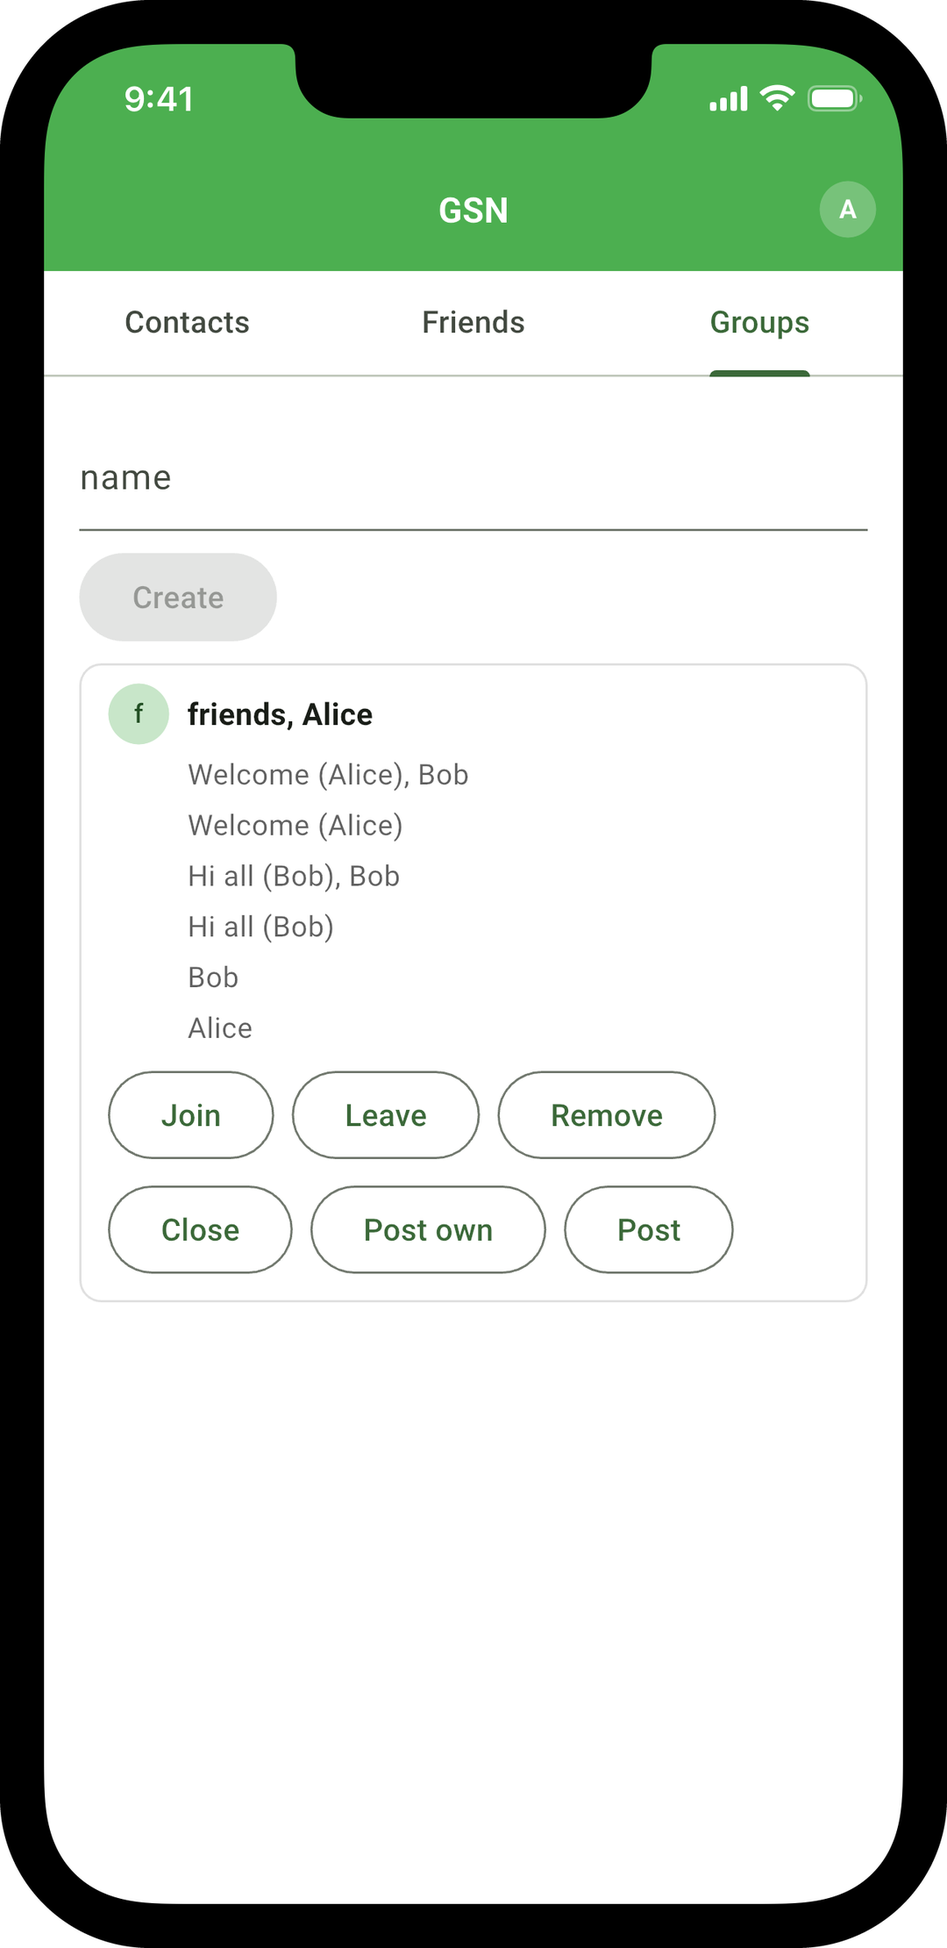
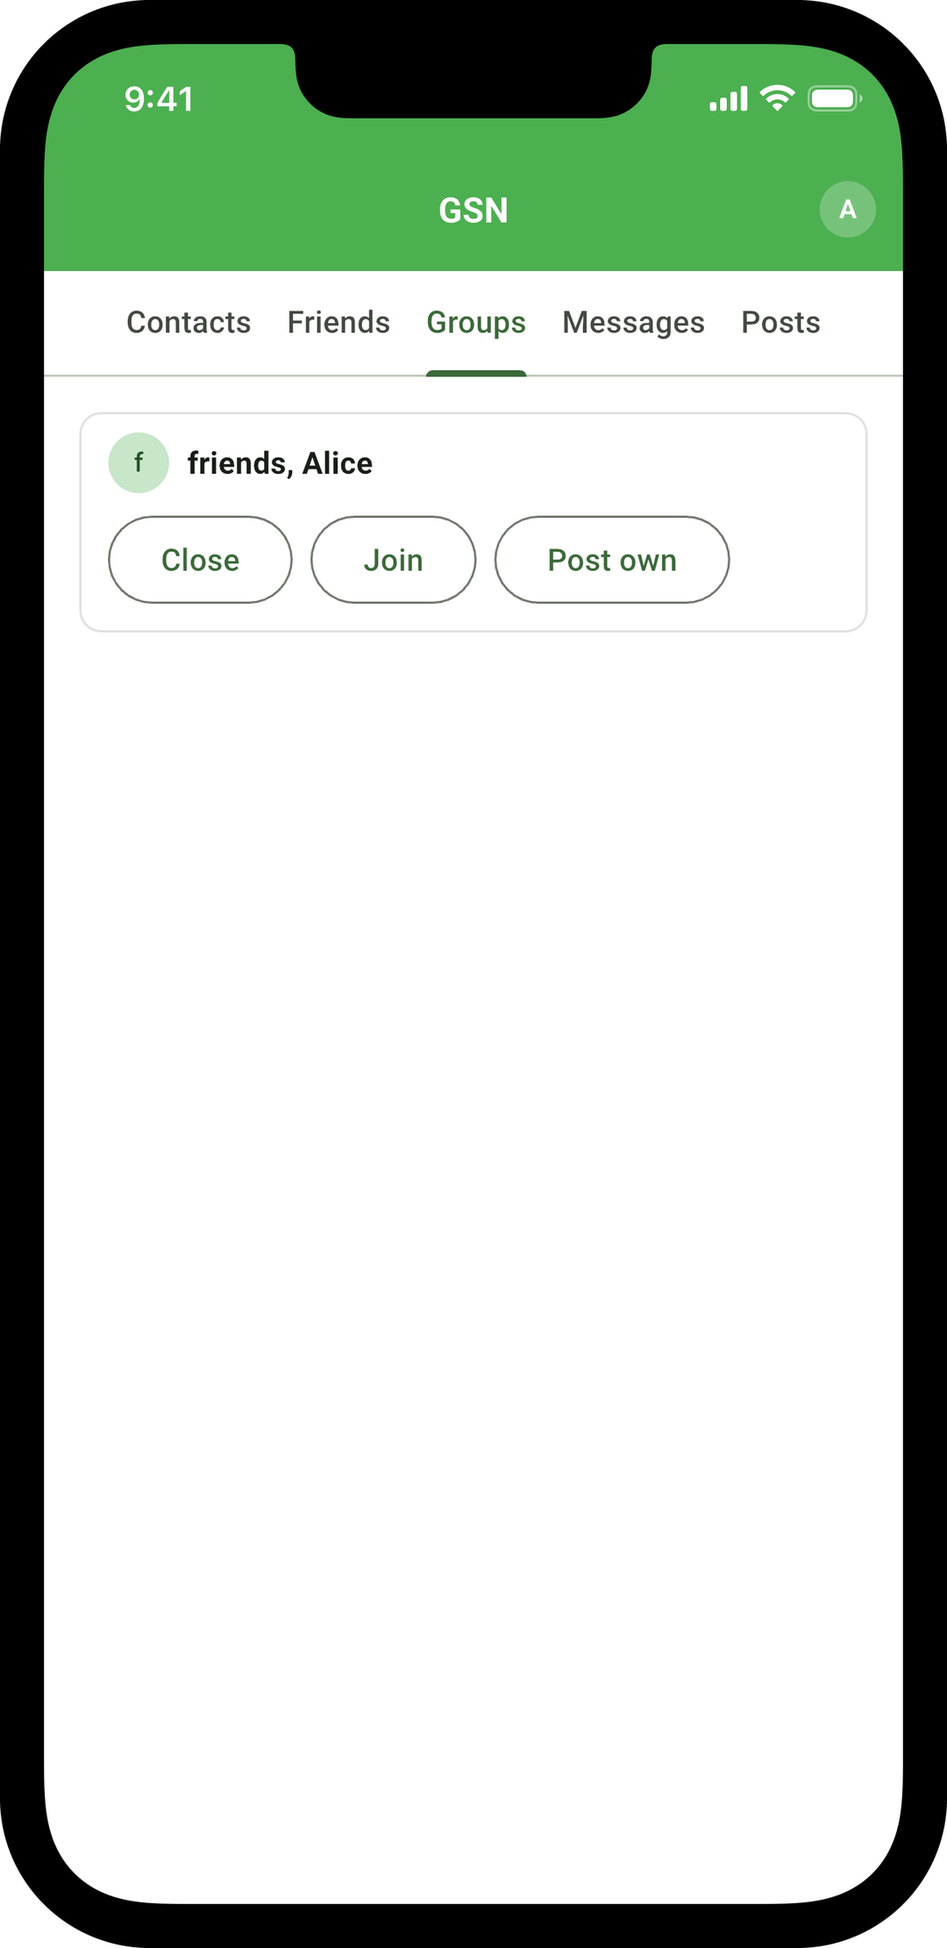
GSN's app: tabs Messages and Posts (received, received_in), the Join question 'Alice asks you to join her group.', screens re-taken; the clause copies in the gkk, gsg and gsn READMEs go, their pointers to programs/gsc stay (GSC #13, Code_inbox.md 2026-11-06 16:45, 2026-11-07 07:28, 08:19 and 09:04 U

diff --git a/glp_multiagent/test/apps_screens_test.dart b/glp_multiagent/test/apps_screens_test.dart
@@ -1052,10 +1052,12 @@ void appsScreens(Screens screens) {
     const friends = 'speech(utterance(friends), alice)';
     const friendsGroup = 'dot(community(alice), $friends)';
 
-    // Three tabs, the lists of GKK's, GSG's and GSN's pragmas: Contacts, Friends and Groups.
+    // Five tabs, the lists of GKK's, GSG's and GSN's pragmas: Contacts, Friends, Groups, Messages, "Messages: the messages Alice received.", and Posts, "Posts: the posts Alice received in her groups." (programs/gsc/GSN.txt at GLP 1aab4307), the predicates received and received_in.
     expect(run.listNamed(alice, 'knows', 'Contacts'), findsOneWidget);
     expect(run.listNamed(alice, 'friend', 'Friends'), findsOneWidget);
     expect(run.listNamed(alice, 'member', 'Groups'), findsOneWidget);
+    expect(run.listNamed(alice, 'received', 'Messages'), findsOneWidget);
+    expect(run.listNamed(alice, 'received_in', 'Posts'), findsOneWidget);
 
     // Identity, acquaintance and friendship, as in GSG's app.
     await run.join(alice);
@@ -1069,7 +1071,12 @@ void appsScreens(Screens screens) {
     await run.type(alice, run.control(alice, 'field:message:bob:3'), 'Hi Bob');
     await run.tap(alice, run.control(alice, 'send:message:bob'));
     expect(bob.questions('approval'), isEmpty);
-    expect(bob.atoms, contains("received(speech(utterance('Hi Bob'), alice), alice)"));
+    const hiBob = "received(speech(utterance('Hi Bob'), alice), alice)";
+    expect(bob.atoms, contains(hiBob));
+    // Bob's Messages tab lists the message, the atom received(x, a) of his state.
+    await run.list(bob, 'received');
+    expect(run.control(bob, 'atom:$hiBob'), findsOneWidget);
+    expect(run.texts(bob), contains('Hi Bob'));
 
     // (a) Bob's Friends tab: the atom of the list, friend(alice), by her name (vGLP, Section 5.4: "The tab lists the atoms of that predicate in the state").
     await run.list(bob, 'friend');
@@ -1092,7 +1099,7 @@ void appsScreens(Screens screens) {
         alice, run.control(alice, 'pick:join:$friendsGroup:bob'));
     await run.tap(alice, run.control(alice, 'send:join:$friendsGroup'));
 
-    // (b) Bob's first tab, badged: GSN's question "Alice asks you to join their group.", the group's name, friends, under it, and yes and no at its top.
+    // (b) Bob's first tab, badged: GSN's question "Alice asks you to join her group.", the group's name, friends, under it, and yes and no at its top.
     final a = bob.approval;
     expect(formatTerm(a.view), contains(', join(alice, bob, $friends), none), '));
     expect(
@@ -1102,7 +1109,7 @@ void appsScreens(Screens screens) {
         findsOneWidget);
     await run.list(bob, 'knows');
     await run.top(bob);
-    const asks = 'Alice asks you to join their group.';
+    const asks = 'Alice asks you to join her group.';
     // The group's name, a speech act of Alice's, is drawn with its signer: "A speech act, in a row, a question or a field, is drawn with its signers" (vGLP 516a0a2, Section 6.2).
     // Then the atoms the act requires of the proposer whose predicates the tabs list: the group Alice leads (vGLP e22e2ad, Section 5.4, "The contract's words"), and her friend.
     expect(run.textsOf(bob, a), [
@@ -1132,6 +1139,14 @@ void appsScreens(Screens screens) {
     expect(alice.atoms, contains('posted($hiAll, $friends)'));
     expect(alice.atoms, contains('delivered($hiAll, bob, $friends)'));
     expect(bob.atoms, contains('received_in($hiAll, alice, $friends)'));
+    // Bob's Posts tab lists the post delivered to him, the atom received_in(x, a, n) of his state; Alice's lists none, the leader receiving no delivery.
+    await run.list(bob, 'received_in');
+    expect(run.control(bob, 'atom:received_in($hiAll, alice, $friends)'),
+        findsOneWidget);
+    expect(run.texts(bob), contains('Hi all'));
+    await run.list(alice, 'received_in');
+    expect(run.texts(alice), isNot(contains('Hi all')));
+    await run.list(bob, 'member');
 
     // (c) Bob's view of the group: the atom of his list, the group's name and its leader, and the buttons of the ways it binds, Leave among them.
     await run.top(bob);

diff --git a/programs/apps/gsn/README.md b/programs/apps/gsn/README.md
@@ -4,15 +4,9 @@ The app of GSN, the grassroots social network, as a mini-app of the Grassroots S
 
 ## The contract
 
-GSN is GSC's contract (Coordination Appendix C); its clauses are `programs/gsc/GSN.txt`, and its act schemas `programs/gsc/GSN.glp`.  GSN extends GSG, which extends GKK, and cites their clauses, GKK:1 to GKK:3 and GSG:1 and GSG:2 (`../gkk/README.md`, `../gsg/README.md`):
+GSN is GSC's contract (Coordination Appendix C); its clauses are `programs/gsc/GSN.txt`, and its act schemas `programs/gsc/GSN.glp`.  GSN extends GSG, which extends GKK, and cites their clauses, GKK:1 to GKK:3 and GSG:1 and GSG:2 (`../gkk/README.md`, `../gsg/README.md`).
 
-1. *Message.*  Alice may send a message to their friend Bob, with content they created or received from another agent.
-2. *Group.*  Alice may create a group, and is then its leader and first member.
-3. *Joining.*  Alice, the leader of a group, may add their friend Bob to it, by an act of both.
-4. *Leaving.*  Bob, a member of a group, may leave it by their own act; when the leader leaves, the group ends.  A member of a group who is not a friend of its leader is removed from it.
-5. *Group message.*  Bob, a member of a group, may send a message to the group, with content they created or received from another agent, and the leader delivers it to every member.
-
-Fourteen schemas: GKK's `establish`, `acquaint` and `introduce`, GSG's `befriend` and `unfriend`, and `message`, `create`, `join`, `leave`, `close`, `drop`, `post_own`, `post` and `deliver` (`programs/gsc/GSN.glp`).  `drop`, which no role guards, ends the membership of a member who is not the leader's friend; `post` and `deliver` require the member's friendship at the leader.  A group is named by its leader and a name, and content and a group's name are speech acts, `speech(Utterance, Peer)`, an utterance and the person who signs it.
+Fourteen schemas: GKK's `establish`, `acquaint` and `introduce`, GSG's `befriend`, GSN's `unfriend`, which replaces GSG's and also ends every membership between the two, and `message`, `create`, `join`, `leave`, `remove`, `close`, `post_own`, `post` and `deliver` (`programs/gsc/GSN.glp`).  `post` and `deliver` require the member's friendship at the leader.  A group is named by its leader and a name, and content and a group's name are speech acts, `speech(Utterance, Peer)`, an utterance and the person who signs it.
 
 ## The cascade
 
@@ -60,9 +54,9 @@ As GSG's app's (`../gsg/README.md`, "On two smartphones"): the two super-apps be
 
 ## The screens
 
-What each person sees, as the construct family draws the app (`glp_multiagent/lib/ui_runtime/named_widgets.dart` and `tab_screen.dart`): Every word on its screens is the contract's, from its pragmas and those of the contracts it extends (vGLP, Section 5.4, "The contract's words"; Section 6.2, "The words a platform shows"); the request `known(Q)` is in no contract, so its button and its field are drawn by their type's names, known and Peer, and the two answers of every question, which no pragma names, as the constants yes and no.  GSG's app's tabs Contacts and Friends (`../gsg/README.md`, "The screens") and a third, Groups, the list of GSN's pragma "Groups: the groups Alice is a member of.".  In Friends, tapping a friend opens the chat with them: the messages received from them, each its text with its author's name under it, and the field text with Message, GSN's "[Message] <text>", proposing `message(Me, Q, x)`, `x` the text typed, signed by the person.  In Groups: the field name with Create, GSN's "[Create] <name>", proposing `create(Me, n)`; each group the person is in, with its name, its leader's name and its messages, and, in a group the person leads, its members' names, whom the leader's state lists (`listed(q, n)`, which `join` adds at the leader); in a group the person leads, Join, GSN's "[Join]", a picker of their friends not in it, proposing `join(Me, Q, n)`, Close, GSN's "[Close]", proposing `close(Me, n)`, and the field text with Post own, GSN's "[Post own] <text>", proposing `post_own(Me, x, n)`; in a group they do not lead, the field text with Post, GSN's "[Post] <text>", proposing `post(Me, A, x, n)`, and Leave, GSN's "[Leave]", proposing `leave(A, Me, n)`.  The approval question of a join is drawn at the top of Groups, "Alice asks you to join their group.", the group's name under it, with yes and no.
+What each person sees, as the construct family draws the app (`glp_multiagent/lib/ui_runtime/named_widgets.dart` and `tab_screen.dart`): Every word on its screens is the contract's, from its pragmas and those of the contracts it extends (vGLP, Section 5.4, "The contract's words"; Section 6.2, "The words a platform shows"); the request `known(Q)` is in no contract, so its button and its field are drawn by their type's names, known and Peer, and the two answers of every question, which no pragma names, as the constants yes and no.  GSG's app's tabs Contacts and Friends (`../gsg/README.md`, "The screens") and three of GSN's pragmas: Groups, "Groups: the groups Alice is a member of.", the atoms of `member`; Messages, "Messages: the messages Alice received.", the atoms of `received`; and Posts, "Posts: the posts Alice received in her groups.", the atoms of `received_in` (`programs/gsc/GSN.txt`).  In Friends, each friend with Unfriend and Message, GSN's "[Message] <text>", which opens the field text and proposes `message(Me, Q, x)`, `x` the text typed, signed by the person.  In Messages, each message received, an atom `received(x, a)`: its text, and under it its signer and its sender.  In Contacts, the field name with Create, GSN's "[Create] <name>", proposing `create(Me, n)`, Create naming no entry.  In Groups, each group the person is in, its name and its leader's name; in a group the person leads, Close, GSN's "[Close]", proposing `close(Me, n)`, Join, GSN's "[Join]", a picker of their friends not in it, proposing `join(Me, Q, n)`, and Post own, GSN's "[Post own] <text>", proposing `post_own(Me, x, n)`; in a group they do not lead, Leave, GSN's "[Leave]", proposing `leave(A, Me, n)`, and Post, GSN's "[Post] <text>", proposing `post(Me, A, x, n)`.  In Posts, each post delivered to the person in a group, an atom `received_in(x, a, n)`: its text, and under it its signer, the leader who delivered it and the group's name.  Remove, GSN's "[Remove]", bound by `listed(q, n)`, which no tab lists, is one button on the first tab with a picker of the members the person lists.  The approval question of a join is drawn at the top of the first tab, Contacts, badged, "Alice asks you to join her group.", the group's name under it, with yes and no.
 
-`glp_multiagent/test/apps_screens_test.dart` runs the app for Alice and Bob over one conversation and takes each person's acts on the tabs' controls: each taps Establish and adds the other by key; Alice taps Acquaint and Bob yes; Alice taps Befriend and Bob yes; Alice opens her chat with Bob, types Hi Bob and taps Message, and Bob is not asked; Bob opens his chat with Alice; Alice creates the group friends on Groups and taps Bob under Join; Bob is asked on Groups and taps yes; and Bob types Hi all in the group and taps Post, proposing `post(bob, alice, x, n)` in the order of post's head, and Alice's agent, which opens the delivery, delivers it to him; Alice types Welcome in her group and taps Post own, and her agent delivers it to Bob; and Alice taps Close, and the group ends at both, Bob's machine voting unasked.  `screens/README.md` names the screens it renders.
+`glp_multiagent/test/apps_screens_test.dart` runs the app for Alice and Bob over one conversation and takes each person's acts on the tabs' controls: each taps Establish and adds the other by key; Alice taps Acquaint and Bob yes; Alice taps Befriend and Bob yes; Alice taps Message beside Bob in Friends, types Hi Bob and taps Message, and Bob is not asked; Bob opens Messages, which lists it; Alice creates the group friends on Contacts and picks Bob under Join in Groups; Bob is asked on Contacts and taps yes; and Bob types Hi all in the group and taps Post, proposing `post(bob, alice, x, n)` in the order of post's head, and Alice's agent, which opens the delivery, delivers it to him, and his Posts lists it; Alice types Welcome in her group and taps Post own, and her agent delivers it to Bob; and Alice taps Close, and the group ends at both, Bob's machine voting unasked.  `screens/README.md` names the screens it renders.
 
 ## The types written again
 

diff --git a/programs/apps/gsn/screens/README.md b/programs/apps/gsn/screens/README.md
@@ -1,6 +1,6 @@
 # The screens of GSN's app
 
-The screens of GAI's figure of GSN's app (Code_inbox.md, GAI #3 Cowork, 2026-10-19 10:45 UTC, item 5, its sentence for a join at 11:35 UTC, and its screen (c) at 13:31 UTC), in the figure's order: Bob's phone, and Alice's for the leader's acts, as the construct family draws the app, one screen with the tabs Contacts, Friends and Groups, the lists of GKK's, GSG's and GSN's pragmas, drawn from the last view the agent wrote (`../README.md`, "The screens").  Each file is one phone's screen taken on the iOS Simulator, an iPhone 16e, 390 by 844 points at 3 pixels a point, its status bar at 9:41 with full signal, Wi-Fi and battery, in the light theme, set in Roboto; the simulator's screenshot is the display alone, so it is framed as the phone, in a black bezel with rounded corners, 1080 by 2220 pixels on white, as vGLP's figure of the app is (`vGLP/figures/gsg-app-friends.png`).
+The screens of GAI's figure of GSN's app (Code_inbox.md, GAI #3 Cowork, 2026-10-19 10:45 UTC, item 5, its sentence for a join at 11:35 UTC, and its screen (c) at 13:31 UTC), in the figure's order: Bob's phone, and Alice's for the leader's acts, as the construct family draws the app, one screen with the tabs Contacts, Friends, Groups, Messages and Posts, the lists of GKK's, GSG's and GSN's pragmas, drawn from the last view the agent wrote (`../README.md`, "The screens").  Each file is one phone's screen taken on the iOS Simulator, an iPhone 16e, 390 by 844 points at 3 pixels a point, its status bar at 9:41 with full signal, Wi-Fi and battery, in the light theme, set in Roboto; the simulator's screenshot is the display alone, so it is framed as the phone, in a black bezel with rounded corners, 1080 by 2220 pixels on white, as vGLP's figure of the app is (`vGLP/figures/gsg-app-friends.png`).
 
 They are taken by `glp_multiagent/tool/sim_screens.sh`, which plays on the simulator the scenario of `glp_multiagent/test/apps_screens_test.dart`: it loads this app, runs its entry `miniapp/4` for Alice and for Bob over one conversation, and takes each person's acts by tapping and typing on the tabs' controls.  From `glp_multiagent/`:
 
@@ -12,7 +12,7 @@ The script builds the bundled assets (`tool/sync_glp_assets.sh`), boots the simu
 
 | File | What it shows |
 |---|---|
-| `gsn-a-bob-chat.png` | Bob's chat with Alice in his Friends tab, her message "Hi Bob" with her name under it, and the field text with Message, GSN's "[Message] <text>". |
-| `gsn-b-bob-asked-to-join.png` | Bob's Groups tab with GSN's question "Alice asks you to join their group.", the group's name, friends, under it, and the answers yes and no at its top. |
-| `gsn-c-bob-group.png` | Bob's Groups tab with the group friends, its leader Alice, the message "Hi all" with Bob's name under it as Alice delivered it to him, no member list, the field text with Post and Leave. |
-| `gsn-d-alice-group.png` | Alice's Groups tab with the group friends she leads: Create's form at the top; in the group's row its messages, "Welcome (Alice)" and "Hi all (Bob)", each with the members it reached, and its members Bob and Alice; and the buttons Join, Leave, Remove, GSN's "[Remove] <person>", Close, GSN's "[Close]", Post own and Post, each drawn in the group's row, an atom the act requires at the proposer's role naming the group (vGLP 6e9f71d, Section 6.2). |
+| `gsn-a-bob-chat.png` | Bob's Friends tab once Alice has sent him Hi Bob (GSN:1): a row for Alice, the atom friend(alice), with Unfriend, GSG's "[Unfriend]", and Message, GSN's "[Message]"; the message itself is listed in his Messages tab. |
+| `gsn-b-bob-asked-to-join.png` | Bob's first tab, Contacts, badged, with GSN's question "Alice asks you to join her group.", the atoms Alice's role requires, "Groups: friends, Alice" and "Friends: Bob", the group's name, friends, signed by Alice, and the answers yes and no at its top (GSN:3); under it his name, Acquaint with its field person, Create with its field name, and Alice with Introduce. |
+| `gsn-c-bob-group.png` | Bob's Groups tab once he has joined and posted Hi all (GSN:3, GSN:4): the group friends, its leader Alice, with Leave, GSN's "[Leave]", and Post, GSN's "[Post]"; the post delivered to him is listed in his Posts tab. |
+| `gsn-d-alice-group.png` | Alice's Groups tab with the group friends she leads (GSN:2, GSN:3, GSN:4): the group's name and hers, with Close, GSN's "[Close]", Join, GSN's "[Join]", and Post own, GSN's "[Post own]", each drawn in the group's row, an atom the act requires at the proposer's role naming the group (vGLP 6e9f71d, Section 6.2). |

diff --git a/programs/apps/gsg/README.md b/programs/apps/gsg/README.md
@@ -6,10 +6,7 @@ The app of GSG, the grassroots social graph, as a mini-app of the Grassroots Sup
 
 GSG is GSC's contract (Coordination Appendix C); its clauses are `programs/gsc/GSG.txt`, as GSC's paper, Section 2.2, has them, and its act schemas `programs/gsc/GSG.glp`.  GSG extends GKK, the base contract (`programs/gsc/GKK.txt`; the app `../gkk`), whose clauses it cites: Identity, GKK:1; Acquaintance, GKK:2; and Introduction, GKK:3.
 
-1. *Friendship.*  Alice and Bob, who know each other personally and are not friends, may jointly decide to become friends by an act of both.
-2. *Ending a friendship.*  Alice may end their friendship with Bob by their own act.
-
-GKK:1 is the schema `establish`, guarded by the person, which adds `identity` at them, and every role of the other schemas requires `identity`.  In the app the key pair is the one the super-app holds, which the super-app hands the mini-app as the `Key` of its entry `miniapp/4`, and which the platform's agent takes as its `Peer`: every act the agent takes names its person by that key.  The person establishes their identity by their first request, `propose(establish(P))`, `P` their key, which every view shows, its first argument, and the request form reads off the last view drawn (vGLP, Section 5.4, "The compilation": the view carries "its own key k"; Section 6.2: "A declared widget is drawn also with the last value drawn on construct 0"), a class of one participant, taken at once.  GKK:2 is the schema `acquaint`, guarded by both, adding `knows` of the other at each, and GKK:3 `introduce`; GSG:1 is the schema `befriend`, guarded by both, requiring `knows` of the other at each, so the two come to know each other before they befriend, and GSG:2 the schema `unfriend`, guarded by either friend; that the two know each other personally describes no act.
+GKK:1 is the schema `establish`, guarded by the person, which adds `identity` at them, and every role of the other schemas requires `identity`.  In the app the key pair is the one the super-app holds, which the super-app hands the mini-app as the `Key` of its entry `miniapp/4`, and which the platform's agent takes as its `Peer`: every act the agent takes names its person by that key.  The person establishes their identity by their first request, `propose(establish(P))`, `P` their key, which every view shows, its first argument, and the request form reads off the last view drawn (vGLP, Section 5.4, "The compilation": the view carries "its own key k"; Section 6.2: "A declared widget is drawn also with the last value drawn on construct 0"), a class of one participant, taken at once.  GKK:2 is the schema `acquaint`, guarded by both, adding `knows` of the other at each, and GKK:3 `introduce`; GSG:1 is the schema `befriend`, guarded by both, requiring `knows` of the other at each, so the two come to know each other before they befriend, and GSG:2 the schema `unfriend`, guarded by either friend; the trust GSG:1 requires, and GSG:3, describe no act (GSC's paper, Section 2.3).
 
 ## The cascade
 

diff --git a/programs/apps/gkk/README.md b/programs/apps/gkk/README.md
@@ -4,11 +4,7 @@ The app of GKK, Grassroots Keys and Knowledge, the base mini-app of the grassroo
 
 ## The contract
 
-GKK is GSC's contract, the base contract every contract extends (Coordination Appendix C); its clauses are `programs/gsc/GKK.txt`, as GSC's paper, Section 2.1, has them, and its act schemas `programs/gsc/GKK.glp`:
-
-1. *Identity.*  Alice may establish their identity once by choosing a unique key pair.  They make themselves known by the public key, sign their acts with the private key, and are accountable for every act signed with it.
-2. *Acquaintance.*  Alice and Bob may come to know each other by an act of both.
-3. *Introduction.*  If Alice and Bob know each other and Alice knows Carol, then Alice can make Carol known to Bob, with Bob's consent.
+GKK is GSC's contract, the base contract every contract extends (Coordination Appendix C); its clauses are `programs/gsc/GKK.txt`, as GSC's paper, Section 2.1, has them, and its act schemas `programs/gsc/GKK.glp`.
 
 GKK:1 is the schema `establish(p?)`, which adds `identity` at the person, and every role of the other two schemas requires `identity`.  In the app the key pair is the one the super-app holds, which the super-app hands the mini-app as the `Key` of its entry `miniapp/4`, and which the platform's agent takes as its `Peer`.  The person establishes their identity by their first request, `propose(establish(P))`, `P` their key, which every view shows, its first argument, and the request form reads off the last view drawn (vGLP, Section 5.4, "The compilation": the view carries "its own key k"; Section 6.2: "A declared widget is drawn also with the last value drawn on construct 0"), a class of one participant, taken at once.  GKK:2 is `acquaint(p?, q?)`, guarded by both, adding `knows` of the other at each; GKK:3 is `introduce(p?, q? ; c)`, guarded by both, `c` the person introduced, who takes no part: `p` requires `knows(q)` and `knows(c)`, `q` requires `knows(p)` and gains `knows(c)`.  The checker's verdict is `syntactically_grassroots`, with acquaint its introductory act (`programs/gsc`, `intro_acts/2`).
 
